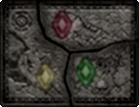
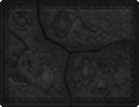
fixed grid rendering when there aren't items

diff --git a/src/itemTracker/GridTracker.js b/src/itemTracker/GridTracker.js
@@ -122,51 +122,54 @@ class GridTracker extends React.Component {
                             </div>
                         </td>
                         <td>
-                            <Item itemName="Progressive Mitts" logic={this.props.logic} onChange={this.props.handleItemClick} imgWidth={imgWidth} ignoreItemClass />
+                            <Item itemName="Progressive Mitts" logic={this.props.logic} onChange={this.props.handleItemClick} imgWidth={imgWidth} grid ignoreItemClass />
                         </td>
                     </tr>
                     <tr>
                         <td>
-                            <Item itemName="Goddess Harp" logic={this.props.logic} onChange={this.props.handleItemClick} imgWidth={imgWidth} ignoreItemClass />
+                            <Item itemName="Goddess Harp" logic={this.props.logic} onChange={this.props.handleItemClick} imgWidth={imgWidth} grid ignoreItemClass />
                         </td>
                         <td>
-                            <Item itemName="Ballad of the Goddess" logic={this.props.logic} onChange={this.props.handleItemClick} imgWidth={imgWidth} ignoreItemClass />
+                            <Item itemName="Ballad of the Goddess" logic={this.props.logic} onChange={this.props.handleItemClick} imgWidth={imgWidth} grid ignoreItemClass />
                         </td>
                         <td>
-                            <Item itemName="Farore's Courage" logic={this.props.logic} onChange={this.props.handleItemClick} imgWidth={imgWidth} ignoreItemClass />
+                            <Item itemName="Farore's Courage" logic={this.props.logic} onChange={this.props.handleItemClick} imgWidth={imgWidth} grid ignoreItemClass />
                         </td>
                         <td>
-                            <Item itemName="Nayru's Wisdom" logic={this.props.logic} onChange={this.props.handleItemClick} imgWidth={imgWidth} ignoreItemClass />
+                            <Item itemName="Nayru's Wisdom" logic={this.props.logic} onChange={this.props.handleItemClick} imgWidth={imgWidth} grid ignoreItemClass />
                         </td>
                         <td>
-                            <Item itemName="Din's Power" logic={this.props.logic} onChange={this.props.handleItemClick} imgWidth={imgWidth} ignoreItemClass />
+                            <Item itemName="Din's Power" logic={this.props.logic} onChange={this.props.handleItemClick} imgWidth={imgWidth} grid ignoreItemClass />
                         </td>
                         <td>
-                            <Item itemName="Song of the Hero" logic={this.props.logic} onChange={this.props.handleItemClick} imgWidth={imgWidth} ignoreItemClass />
+                            <div style={{ position: 'relative' }}>
+                                <Item itemName="Song of the Hero" logic={this.props.logic} onChange={this.props.handleItemClick} imgWidth={imgWidth} grid ignoreItemClass />
+                                <p style={{ fontSize: 'xx-large', position: 'absolute', left: '20%', top: '0%', color: this.props.colorScheme.text, pointerEvents: 'none' }}>{this.props.logic.getItem('Song of the Hero')}</p>
+                            </div>
                         </td>
                         <td>
-                            <Item itemName="Stone of Trials" logic={this.props.logic} onChange={this.props.handleItemClick} imgWidth={imgWidth} ignoreItemClass />
+                            <Item itemName="Stone of Trials" logic={this.props.logic} onChange={this.props.handleItemClick} imgWidth={imgWidth} grid ignoreItemClass />
                         </td>
                     </tr>
                     <tr>
                         <td>
-                            <Item itemName="Water Scale" logic={this.props.logic} onChange={this.props.handleItemClick} imgWidth={imgWidth} ignoreItemClass />
+                            <Item itemName="Water Scale" logic={this.props.logic} onChange={this.props.handleItemClick} imgWidth={imgWidth} grid ignoreItemClass />
                         </td>
                         <td>
-                            <Item itemName="Fireshield Earrings" logic={this.props.logic} onChange={this.props.handleItemClick} imgWidth={imgWidth} ignoreItemClass />
+                            <Item itemName="Fireshield Earrings" logic={this.props.logic} onChange={this.props.handleItemClick} imgWidth={imgWidth} grid ignoreItemClass />
                         </td>
                         <td>
-                            <Item itemName="Cawlin's Letter" logic={this.props.logic} onChange={this.props.handleItemClick} imgWidth={imgWidth} ignoreItemClass />
+                            <Item itemName="Cawlin's Letter" logic={this.props.logic} onChange={this.props.handleItemClick} imgWidth={imgWidth} grid ignoreItemClass />
                         </td>
                         <td>
-                            <Item itemName="Horned Colossus Beetle" logic={this.props.logic} onChange={this.props.handleItemClick} imgWidth={imgWidth} ignoreItemClass />
+                            <Item itemName="Horned Colossus Beetle" logic={this.props.logic} onChange={this.props.handleItemClick} imgWidth={imgWidth} grid ignoreItemClass />
                         </td>
                         <td>
-                            <Item itemName="Baby Rattle" logic={this.props.logic} onChange={this.props.handleItemClick} imgWidth={imgWidth} ignoreItemClass />
+                            <Item itemName="Baby Rattle" logic={this.props.logic} onChange={this.props.handleItemClick} imgWidth={imgWidth} grid ignoreItemClass />
                         </td>
                         <td>
                             <div>
-                                <GratitudeCrystals logic={this.props.logic} onChange={this.props.handleItemClick} imgWidth={imgWidth} />
+                                <GratitudeCrystals logic={this.props.logic} onChange={this.props.handleItemClick} imgWidth={imgWidth} grid />
                             </div>
                             <div style={{ position: 'relative', bottom: '100%', pointerEvents: 'none' }}>
                                 <CrystalCounter current={this.props.logic.getCrystalCount()} colorScheme={this.props.colorScheme} />

diff --git a/src/itemTracker/Images.js b/src/itemTracker/Images.js
@@ -99,6 +99,22 @@ import noEmeraldTablet from '../assets/tablets/No_Emerald_Tablet.png';
 import emeraldTablet from '../assets/tablets/emerald_tablet.png';
 import rubyTablet from '../assets/tablets/ruby_tablet.png';
 import amberTablet from '../assets/tablets/amber_tablet.png';
+import noCBeetleGrid from '../assets/sidequests/no_cbeetle_grid.png';
+import noRattleGrid from '../assets/sidequests/no_rattle_grid.png';
+import noCrystalGrid from '../assets/sidequests/no_crystal_grid.png';
+import noLetterGrid from '../assets/sidequests/no_cawlins_letter_grid.png';
+import noHarpGrid from '../assets/main quest/no_harp_grid.png';
+import noBallad from '../assets/songs/no_ballad_grid.png';
+import noCourage from '../assets/songs/no_courage_grid.png';
+import noWisdom from '../assets/songs/no_wisdom_grid.png';
+import noPower from '../assets/songs/no_power_grid.png';
+import sothGrid from '../assets/songs/soth_grid.png';
+import noSothGrid from '../assets/songs/no_soth_grid.png';
+import noSailclothGrid from '../assets/main quest/no_sailcloth_grid.png';
+import noScaleGrid from '../assets/main quest/no_scale_grid.png';
+import noEarringsGrid from '../assets/main quest/no_earrings_grid.png';
+import noMittsGrid from '../assets/main quest/no_mitts_grid.png';
+import noStoneGrid from '../assets/main quest/no_stone_grid.png';
 
 const images = {
     'Progressive Beetle': [
@@ -313,6 +329,69 @@ const images = {
     'Amber Tablet': [
         noAmberTablet,
         amberTablet,
+    ],
+    'Cawlin\'s Letter Grid': [
+        noLetterGrid,
+        letter,
+    ],
+    'Horned Colossus Beetle Grid': [
+        noCBeetleGrid,
+        cBeetle,
+    ],
+    'Baby Rattle Grid': [
+        noRattleGrid,
+        rattle,
+    ],
+    'Gratitude Crystals Grid': [
+        noCrystalGrid,
+        crystal,
+    ],
+    'Goddess Harp Grid': [
+        noHarpGrid,
+        harp,
+    ],
+    'Ballad of the Goddess Grid': [
+        noBallad,
+        ballad,
+    ],
+    'Farore\'s Courage Grid': [
+        noCourage,
+        courage,
+    ],
+    'Nayru\'s Wisdom Grid': [
+        noWisdom,
+        wisdom,
+    ],
+    'Din\'s Power Grid': [
+        noPower,
+        power,
+    ],
+    'Song of the Hero Grid': [
+        noSothGrid,
+        sothGrid,
+        sothGrid,
+        sothGrid,
+    ],
+    'Water Scale Grid': [
+        noScaleGrid,
+        scale,
+    ],
+    'Fireshield Earrings Grid': [
+        noEarringsGrid,
+        earrings,
+    ],
+    'Progressive Mitts Grid': [
+        noMittsGrid,
+        diggingMitts,
+        mogmaMitts,
+    ],
+    'Stone of Trials Grid': [
+        noStoneGrid,
+        stone,
+    ],
+    'Sailcloth Grid': [
+        noSailclothGrid,
+        sailcloth,
     ],
 };
 

diff --git a/src/itemTracker/Item.js b/src/itemTracker/Item.js
@@ -23,12 +23,21 @@ class Item extends React.Component {
         const className = this.props.ignoreItemClass ? '' : 'item';
         let images;
         if (!this.props.images) {
-            images = allImages[this.props.itemName];
+            if (this.props.grid) {
+                images = allImages[`${this.props.itemName} Grid`];
+            } else {
+                images = allImages[this.props.itemName];
+            }
         } else {
             images = this.props.images;
         }
+        const style = this.props.styleProps;
+        // if (current === 0) {
+        //     style = { ...style, opacity: '0.15' };
+        //     current = 1;
+        // }
         return (
-            <div className={`item-container ${className}`} style={this.props.styleProps} onClick={this.handleClick} onContextMenu={this.handleClick} onKeyDown={this.handleClick} role="button" tabIndex="0">
+            <div className={`item-container ${className}`} style={style} onClick={this.handleClick} onContextMenu={this.handleClick} onKeyDown={this.handleClick} role="button" tabIndex="0">
                 <img src={images[current]} alt={this.props.itemName} width={this.props.imgWidth} />
             </div>
         );
@@ -43,10 +52,12 @@ Item.propTypes = {
     onChange: PropTypes.func.isRequired,
     ignoreItemClass: PropTypes.bool,
     styleProps: PropTypes.shape(),
+    grid: PropTypes.bool,
 };
 Item.defaultProps = {
     ignoreItemClass: false,
     images: undefined,
     styleProps: {},
+    grid: false,
 };
 export default Item;

diff --git a/src/itemTracker/items/sidequest/GratitudeCrystals.js b/src/itemTracker/items/sidequest/GratitudeCrystals.js
@@ -23,7 +23,11 @@ class GratitudeCrystals extends React.Component {
         const className = this.props.ignoreItemClass ? '' : 'item';
         let images;
         if (!this.props.images) {
-            images = allImages['Gratitude Crystals'];
+            if (this.props.grid) {
+                images = allImages['Gratitude Crystals Grid'];
+            } else {
+                images = allImages['Gratitude Crystals'];
+            }
         } else {
             images = this.props.images;
         }
@@ -41,9 +45,11 @@ GratitudeCrystals.propTypes = {
     imgWidth: PropTypes.number.isRequired,
     logic: PropTypes.instanceOf(Logic).isRequired,
     ignoreItemClass: PropTypes.bool,
+    grid: PropTypes.bool,
 };
 GratitudeCrystals.defaultProps = {
     ignoreItemClass: false,
     images: undefined,
+    grid: false,
 };
 export default GratitudeCrystals;
